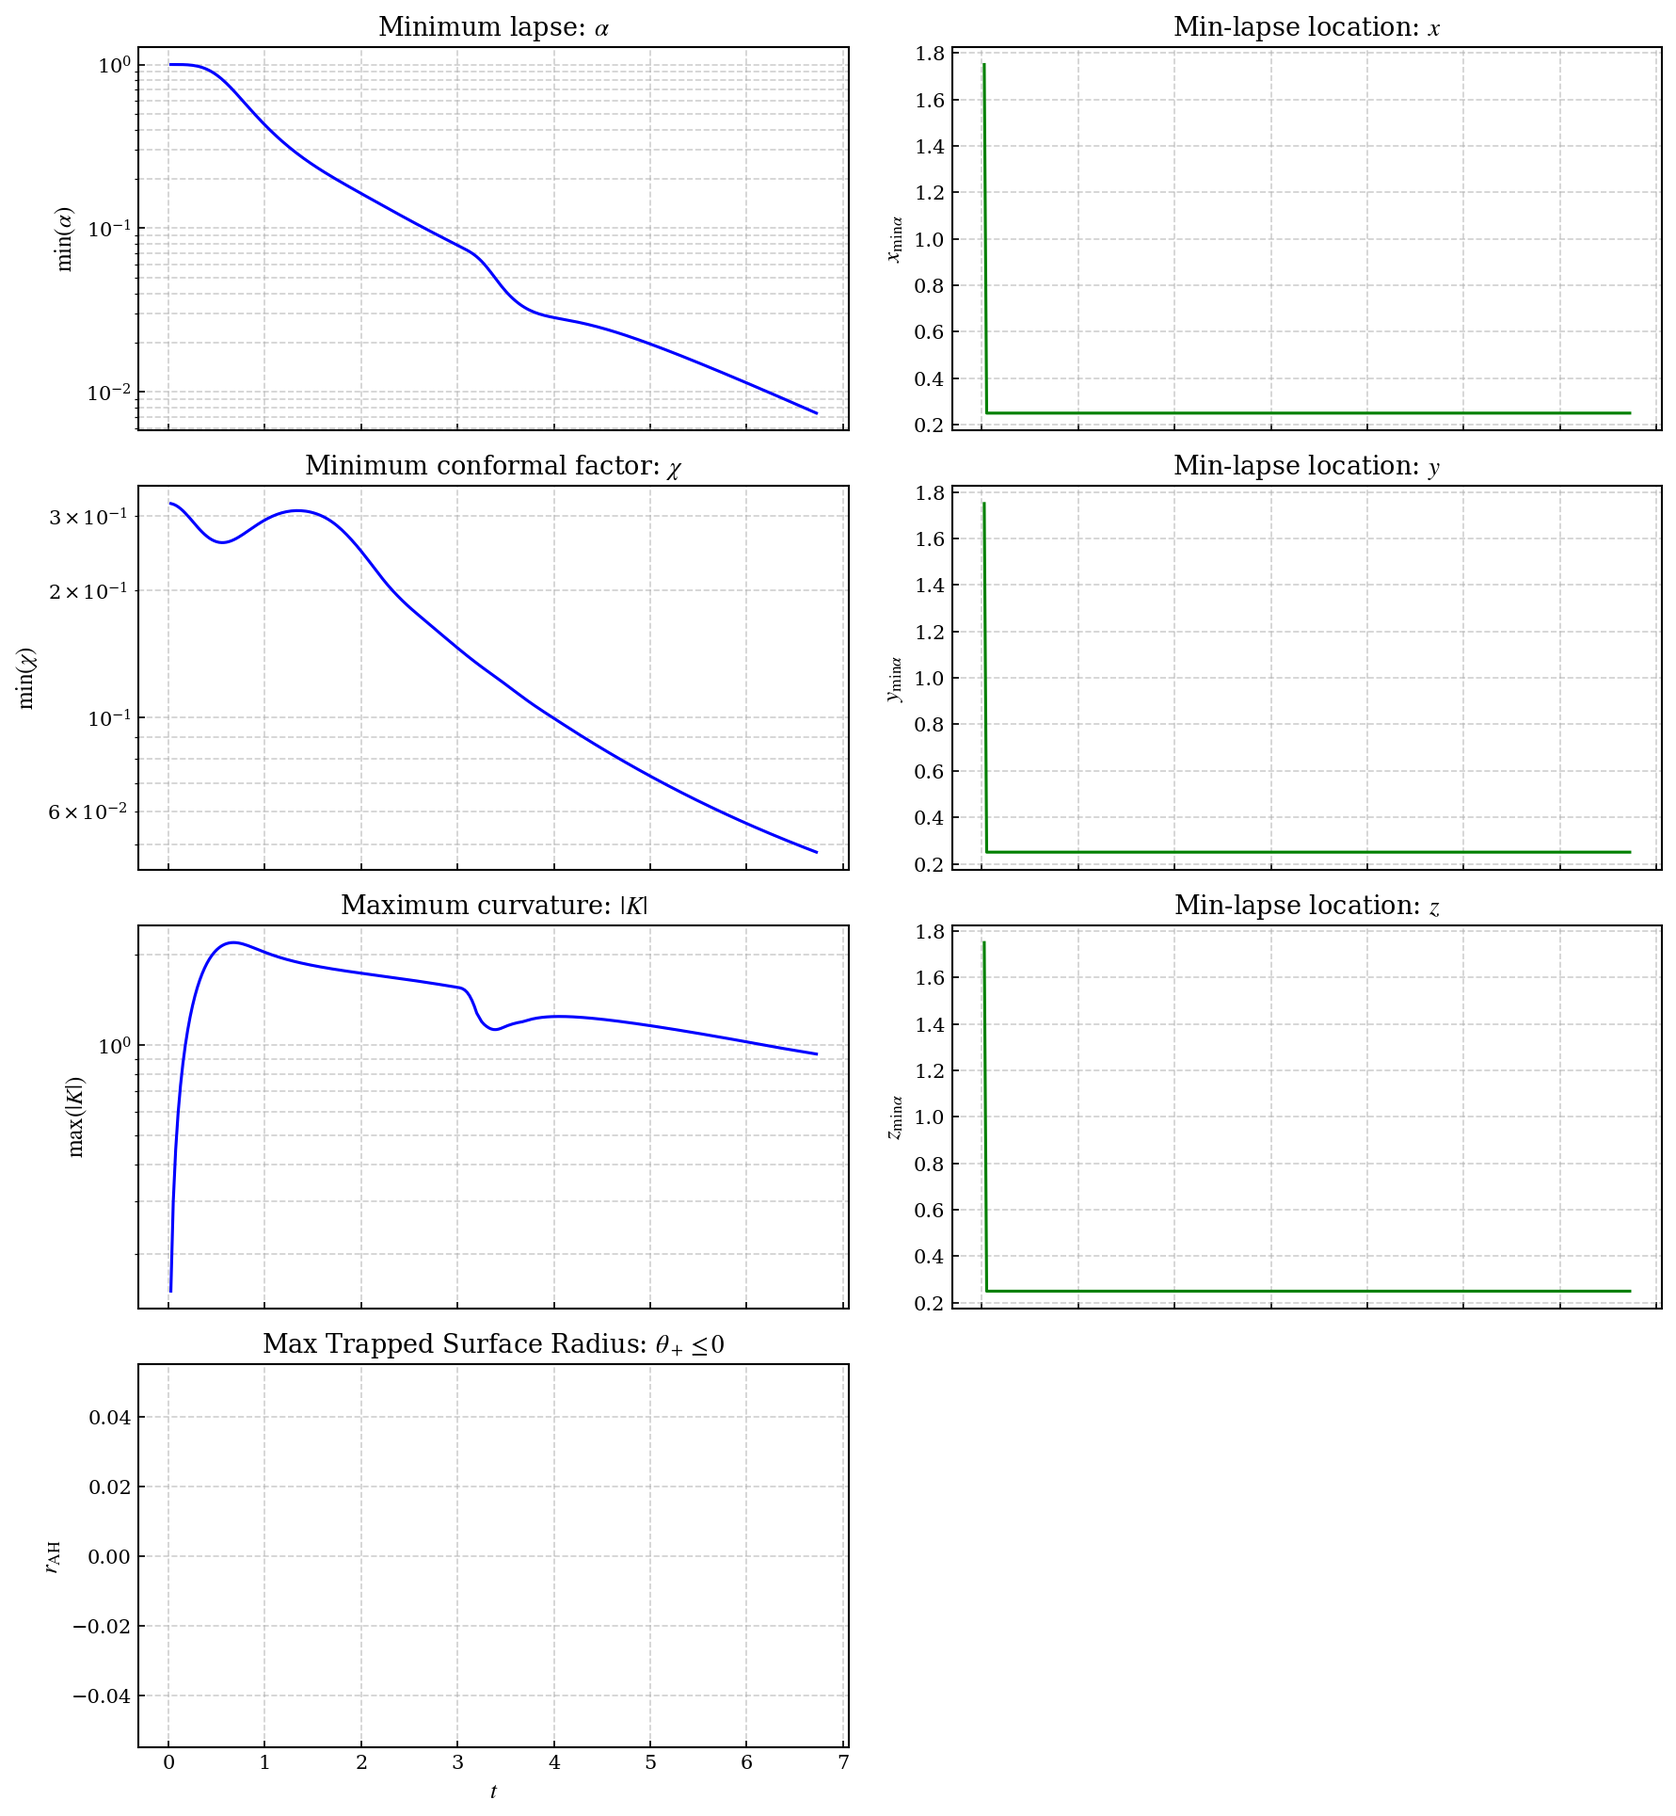
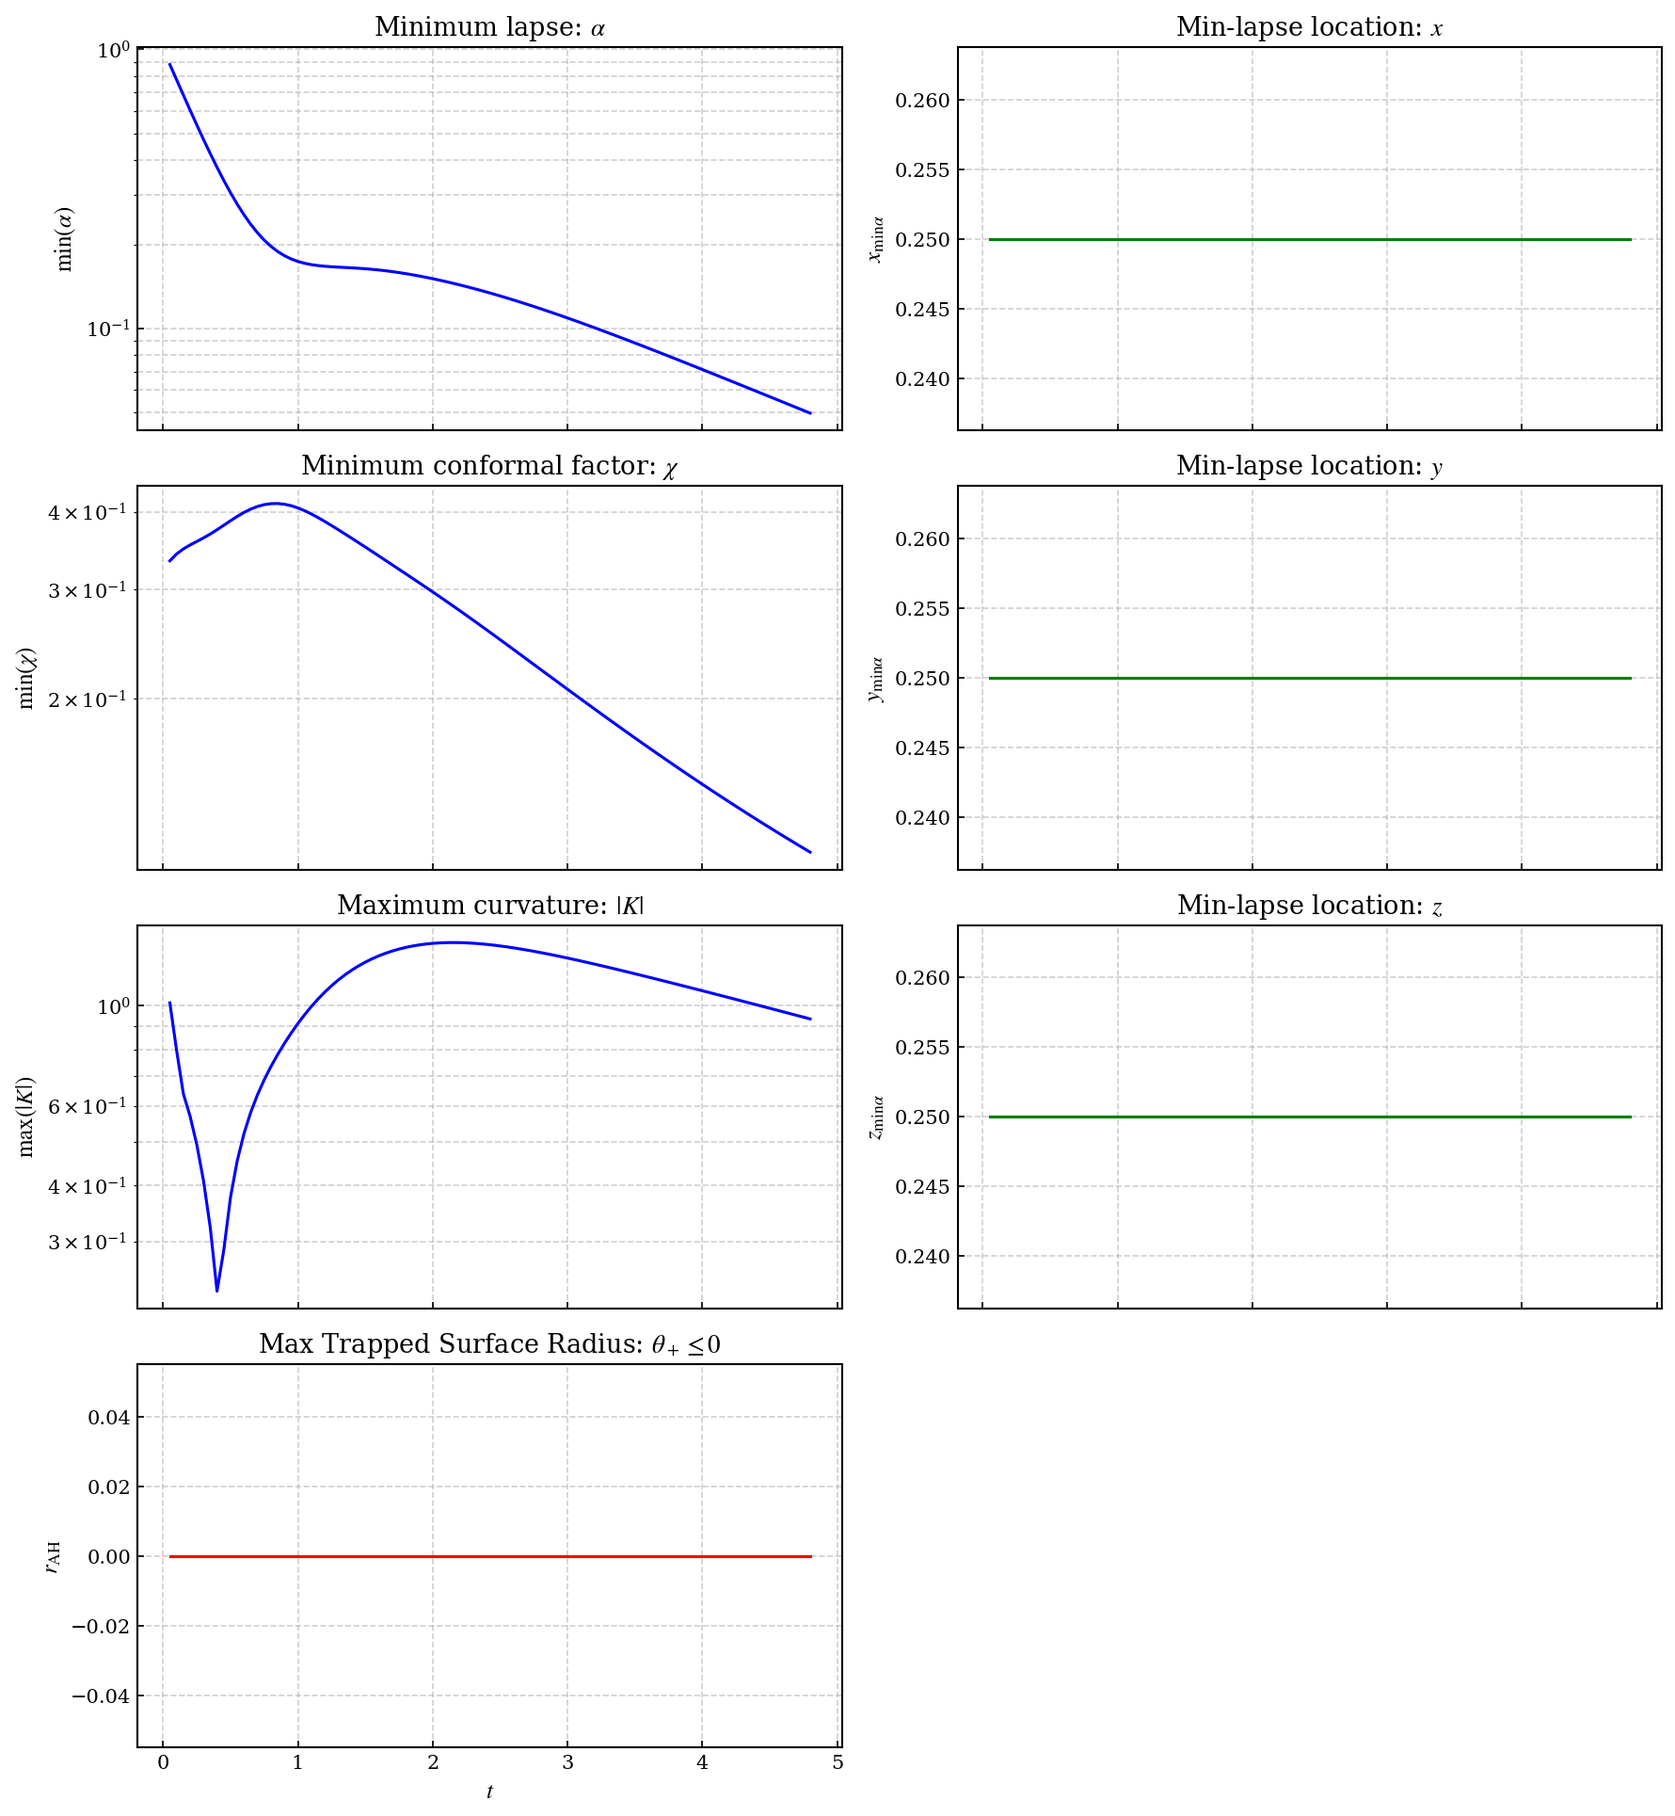
fix: fixes

diff --git a/Examples/WormholeCollapse/WormholeLevel.cpp b/Examples/WormholeCollapse/WormholeLevel.cpp
@@ -415,11 +415,11 @@ void WormholeLevel::specificPostTimeStep()
                         return {0.0, 0.0, 0.0, 0.0};
                     }
                     const amrex::Real x =
-                        prob_lo[0] + (amrex::Real(i) + 0.5) * dx[0];
+                        prob_lo[0] + (amrex::Real(i) + 0.5) * dx_arr[0];
                     const amrex::Real y =
-                        prob_lo[1] + (amrex::Real(j) + 0.5) * dx[1];
+                        prob_lo[1] + (amrex::Real(j) + 0.5) * dx_arr[1];
                     const amrex::Real z =
-                        prob_lo[2] + (amrex::Real(k) + 0.5) * dx[2];
+                        prob_lo[2] + (amrex::Real(k) + 0.5) * dx_arr[2];
                     return {x, y, z, 1.0};
                 });
         }

diff --git a/Article.md b/Article.md
@@ -220,8 +220,48 @@ To find solutions for the wormhole and black hole geometries discussed in this w
 \end{equation}
 The specific topology of the spacetime (e.g., number of mouths or punctures) is then determined by the boundary conditions and the choice of the singular parts of the solution $\psi$.
 
+\subsubsection*{Unsupported vacuum data should be interpreted as a constraint defect, not as a stationary wormhole}
+The Ellis--Bronnikov conformal factor
+\begin{equation}
+    \psi = 1 + \frac{b_0^2}{4\bar r^2}
+\end{equation}
+describes a traversable throat only when it is accompanied by the stress-energy source that violates the Null Energy Condition. This is not merely a matter of taste: the classical singularity theorems of Penrose and Hawking are formulated precisely around such energy conditions, so a traversable wormhole unsupported by exotic matter is generically not expected to remain a regular stationary vacuum object. If one takes the same geometry and evolves it with $T_{\mu\nu}=0$, the vacuum Hamiltonian constraint
+\begin{equation}
+    R + K^2 - K_{ij}K^{ij} = 0
+\end{equation}
+is no longer satisfied by the supported wormhole data on the initial slice. In other words, the missing exotic support appears numerically as an initial Hamiltonian-constraint defect.
+
+This observation provides the correct interpretation of the unsupported \texttt{WormholeCollapse} experiments. They should not be viewed as equilibrated astrophysical wormholes evolving in clean vacuum, but rather as macroscopic topological defects placed out of equilibrium and then allowed to relax under CCZ4. In that setting, the sensitivity to damping parameters, expansion versus collapse, and the presence or absence of an initial inward $K$ pulse are not simply coding pathologies. They are signatures of a genuine bifurcation in how the Einstein system resolves the unsupported geometry back toward the vacuum constraint surface.
+
+Operationally, two branches are observed. With weak or no inward forcing, the code damps and propagates away the initial defect, and the throat relaxes by widening or dispersing instead of self-trapping. With a sufficiently strong localized negative-$K$ perturbation, the same unsupported geometry can be driven onto a supercritical implosive branch that forms an apparent horizon. We therefore interpret the imposed $K$ profile not as a claim that the unsupported wormhole is naturally stable until ``numerically kicked,'' but as a controlled momentum fluctuation used to test whether the defect disperses or collapses once its exotic support has been removed.
+
 
 \section{Results}
+
+\subsection{Experimental Findings to Date (Iteration Summary)}
+
+Because the supported-collapse program was developed iteratively alongside parameter scans, we summarize here the main experimental findings observed so far. This summary is intended to separate robust outcomes (directly supported by diagnostics) from hypotheses that require further validation.
+
+\subsubsection*{1. Lapse collapse alone is not evidence of black hole formation}
+Multiple runs exhibited an early or transient dip in the minimum lapse, including cases where the lapse approached very small values and later recovered. The trapped-surface diagnostic (\(\theta_+ \le 0\), reported as \(r_{\rm AH}\)) remained the decisive discriminator: in the runs examined during development, we observed cases with strong lapse compression but \(r_{\rm AH}=0\), and also numerical failures in which the lapse overshot unphysically (including negative values) and the evolution aborted with NaNs. Therefore, we treat apparent-horizon formation (\(r_{\rm AH}>0\))—not lapse behavior alone—as the primary indicator of physical collapse.
+
+\subsubsection*{2. Global support quenching produced non-physical whole-slice responses}
+Early versions of the supported setup reduced the exotic support globally on a slice. This produced an immediate, non-causal response across the domain and puzzling early-time curvature features. Implementing a throat-centered causal front \(S(\mathbf{x},t)\) suppressed this whole-domain artifact and allowed support removal to propagate outward at a finite speed.
+
+\subsubsection*{3. Correct localization of the causal front is essential}
+In isotropic coordinates for the single-throat Ellis--Bronnikov chart, the physical throat is located at the shell \(\bar r=b_0/2\), not at the coordinate origin. A critical implementation error initially launched the causal front from \(\bar r=0\); correcting this to launch from the throat shell was necessary for the support-removal experiment to be physically meaningful.
+
+\subsubsection*{4. Separating support removal from forcing: delayed kick}
+Parameter scans showed that an initial-data kick at \(t=0\) can dominate early dynamics and generate large transients. A delayed, compact-in-time \(K\)-pulse applied after a settling/support stage provides a cleaner probe: it can be used as a branch selector and symmetry breaker after the background evolution has been established, rather than as the main driver of the early-time waveform.
+
+\subsubsection*{5. Diagnostics and plotting must be synchronized with the raw data}
+During development, figures were occasionally regenerated while runs were still writing data, producing plots that reflected only a partial time window. We therefore interpret all visualizations by cross-checking against the raw \texttt{collapse\_diagnostics.dat} and \texttt{constraint\_norms.dat} files and their time ranges.
+
+\subsubsection*{6. Unsupported (vacuum) runs probe bifurcation of an initial constraint defect}
+In the vacuum \texttt{WormholeCollapse} path, the initial Ellis--Bronnikov geometry is deliberately evolved without the stress-energy that would support a traversable throat. The resulting early-time dynamics therefore include a large Hamiltonian-constraint defect, and the CCZ4 damping parameters materially affect how quickly that defect is propagated away and reduced. This helps explain why some unsupported runs appear ``bouncy,'' others expand, and others collapse only after a sufficiently strong inward perturbation. Additionally, the trapped-surface proxy was not initially written for the vacuum example; it was subsequently added to the diagnostics so that \(r_{\rm AH}\) can be monitored consistently across supported and unsupported experiments.
+
+\subsubsection*{7. Supported equilibrium has not yet been demonstrated in code}
+In supported runs with support held constant (\(S\equiv 1\)) and zero initial kick, the minimum conformal factor \(\chi\) was observed to drift rather than remain stationary, indicating that the implemented ``supported'' initial slice may not be a true equilibrium of the coupled Einstein--phantom-scalar system under the code's conventions. This motivates a targeted equilibrium validation run (support on, no kick, no ramp) and, if needed, a correction of the analytic scalar profile used to generate \(\phi(r)\) so that the Hamiltonian constraint balance \(R-16\pi\rho=0\) is satisfied at \(t=0\) in the discrete formulation.
 
 \subsection{Dynamics of Support Removal and Relaxation}
 
@@ -247,7 +287,7 @@ As shown in Figure~\ref{fig:collapse_diagnostics_plot}, during the ramp-down of 
 
 To definitively rule out the formation of an event horizon, we monitored the maximum radius at which the outgoing null expansion satisfies $\theta_+ \le 0$. Throughout the entire evolution, this radius remains strictly zero ($r_{\rm AH} = 0$), confirming that no apparent horizon or trapped surface forms.
 
-These results indicate that, in the absence of a massive implosive kick ($K < 0$), the removal of the exotic matter threading the throat does not automatically lead to catastrophic gravitational collapse. The surrounding mass-energy of the wormhole is insufficient to self-trap, and instead, the defect gently dissipates and expands outward.
+These results indicate that, in the absence of a sufficiently strong implosive perturbation ($K < 0$), the removal of the exotic matter threading the throat does not automatically lead to catastrophic gravitational collapse. Instead, the unsupported geometry follows the dispersive branch: the initial constraint defect is damped, the throat widens, and the topology relaxes outward rather than self-trapping.
 
 \subsection{Role of Perturbation Width and Amplitude}
 
@@ -282,7 +322,7 @@ Second, the volumetric scaling of the injected perturbation energy plays a domin
 
 \subsection{Separating the Initial Transient from Physical Outgoing Radiation}
 
-Because the initial unsupported wormhole slice contains a constraint defect (since it is evolved in vacuum), the earliest curvature signal is dominated by ``junk'' content: a mixture of gauge/constraint-cleaning transients and pre-existing curvature content relaxing. We analyze the extracted curvature waveform using retarded time, $u \equiv t - R_{\mathrm{ext}}$, to distinguish this initial burst from physical collapse radiation. Note that because of computational domain limitations, our extraction spheres are located at $R_{\mathrm{ext}} = 8, 12, 16M$, placing them deeply within the strong-field near-zone. As a result, these waveforms contain static Coulomb components of the gravitational field and cannot be cleanly interpreted as the asymptotic strain ($h$) seen by gravitational wave observatories.
+Because the initial unsupported wormhole slice contains a constraint defect (since it is evolved in vacuum), the earliest curvature signal is dominated by ``junk'' content: a mixture of gauge/constraint-cleaning transients and pre-existing curvature content relaxing. We therefore divide the waveform interpretation into two parts. The early precursor is treated explicitly as contaminated by initial-data relaxation, while the later oscillatory tail following horizon formation is interpreted as the physical response of the final black hole. We analyze the extracted curvature waveform using retarded time, $u \equiv t - R_{\mathrm{ext}}$, to distinguish this initial burst from physical collapse radiation. Note that because of computational domain limitations, our extraction spheres are located at $R_{\mathrm{ext}} = 8, 12, 16M$, placing them deeply within the strong-field near-zone. As a result, these waveforms contain static Coulomb components of the gravitational field and cannot be cleanly interpreted as the asymptotic strain ($h$) seen by gravitational wave observatories.
 
 \begin{figure}[h]
     \centering
@@ -310,13 +350,13 @@ A second important feature of the waveform is its morphology. The large separati
 
 \section{Conclusion}
 
-This work demonstrates that the macroscopic collapse of traversable wormholes generates a distinct, detectable gravitational wave signature. By initializing an Ellis-Bronnikov wormhole geometry and evolving it under the vacuum Einstein equations, we confirmed that such unsupported topological structures are violently unstable and naturally collapse into black holes.
+This work demonstrates that macroscopic wormhole-like topologies can generate a distinct gravitational-wave signature when an unsupported throat is driven onto a collapsing branch. The key point is interpretive: an Ellis--Bronnikov geometry evolved in pure vacuum is not a stationary traversable wormhole solution, but an out-of-equilibrium topological defect carrying an initial Hamiltonian-constraint violation that represents the missing exotic support.
 
-Our 3D numerical relativity simulations utilizing the \texttt{GRTeclyn} framework reveal that this topological transition is characterized by a nonlinear threshold behavior. The geometry of the perturbation—specifically its width relative to the throat—is the primary driver of whether collapse occurs, rather than the raw amplitude of the kick. We observed that the mass-energy scale of the resulting black hole, and thus the amplitude and frequency of the emitted gravitational waves, is set by the initial size of the wormhole throat.
+Our 3D numerical relativity simulations utilizing the \texttt{GRTeclyn} framework reveal that the subsequent evolution is characterized by nonlinear threshold behavior. In the absence of a sufficiently strong inward perturbation, the unsupported geometry follows a dispersive branch and relaxes outward rather than forming a trapped surface. When a localized negative-$K$ fluctuation exceeds threshold, however, the topology is driven into genuine collapse. The geometry of the perturbation---especially its width relative to the throat---is the primary driver of whether this transition occurs, rather than the raw amplitude of the kick alone. We observed that the mass-energy scale of the resulting black hole, and thus the amplitude and frequency of the emitted gravitational waves, is set by the initial size of the wormhole throat.
 
-The extracted Weyl scalar ($\Psi_4$) waveforms exhibit a clear, causal outward-propagating burst associated with the collapse event, followed by the quasi-normal ringing of the newly formed black hole. This signal is temporally isolated from the initial high-frequency transient caused by the relaxation of the unsupported initial data. 
+The extracted Weyl scalar ($\Psi_4$) waveforms exhibit a clear, causal outward-propagating burst associated with the collapse event, followed by the quasi-normal ringing of the newly formed black hole. This physical ringdown is temporally isolated from the earlier high-frequency transient caused by the relaxation of the unsupported initial data, which should be interpreted as junk radiation sourced by constraint cleaning and initial-data readjustment.
 
-These results provide the first full 3D dynamical waveforms for the collapse of a macroscopic wormhole topology. The existence of these distinct, high-amplitude bursts establishes that if primordial wormholes exist without the continuous support of exotic matter, their natural collapse mechanism produces near-field gravitational radiation that offers a unique theoretical window into the dynamics of Exotic Compact Objects.
+These results provide a consistent 3D picture of unsupported wormhole-like defects in classical General Relativity: traversable topologies require non-standard support, unsupported data tend naturally toward dispersal, and collapse occurs only when an inward fluctuation drives the system across a critical threshold. In that supercritical branch, the final black hole emits a measurable near-field ringdown that offers a theoretically robust window into the dynamics of Exotic Compact Objects and primordial topological defects.
 
 \appendix* 
 \section{Numerical Details, Validation and Convergence}

diff --git a/Examples/WormholeCollapse/Setup.md b/Examples/WormholeCollapse/Setup.md
@@ -58,6 +58,12 @@ Use `mpirun` to launch the MPI version of the executable.
 CUDA_VISIBLE_DEVICES=0,1 mpirun -n 2 ./main3d.gnu.MPI.CUDA.ex params_2gpu.txt
 ```
 
+For the vacuum-collapse example, the compressive kick is seeded directly in the
+initial data at `t=0` through `wormhole_k_monopole_amplitude`,
+`wormhole_k_quadrupole_amplitude`, and `wormhole_k_width` in the params file.
+The delayed-kick parameters are still supported by the code for alternate
+experiments, but they are disabled by default in the example inputs.
+
 ### Multi-GPU (e.g. 4 GPUs)
 This example also works with 4 GPUs (4 MPI ranks):
 
